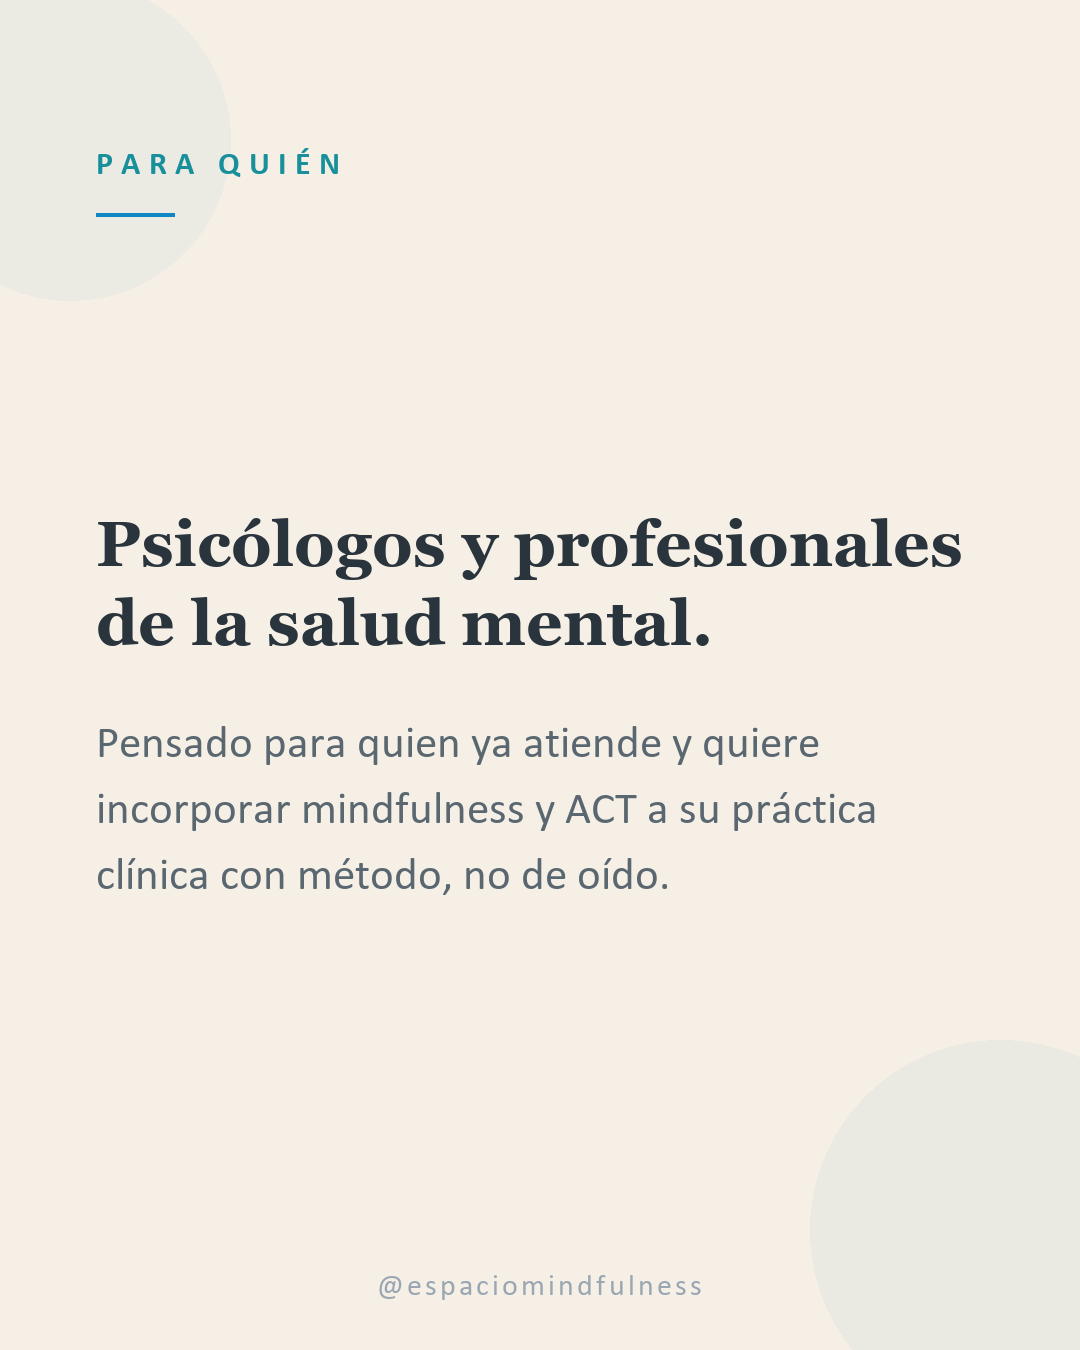
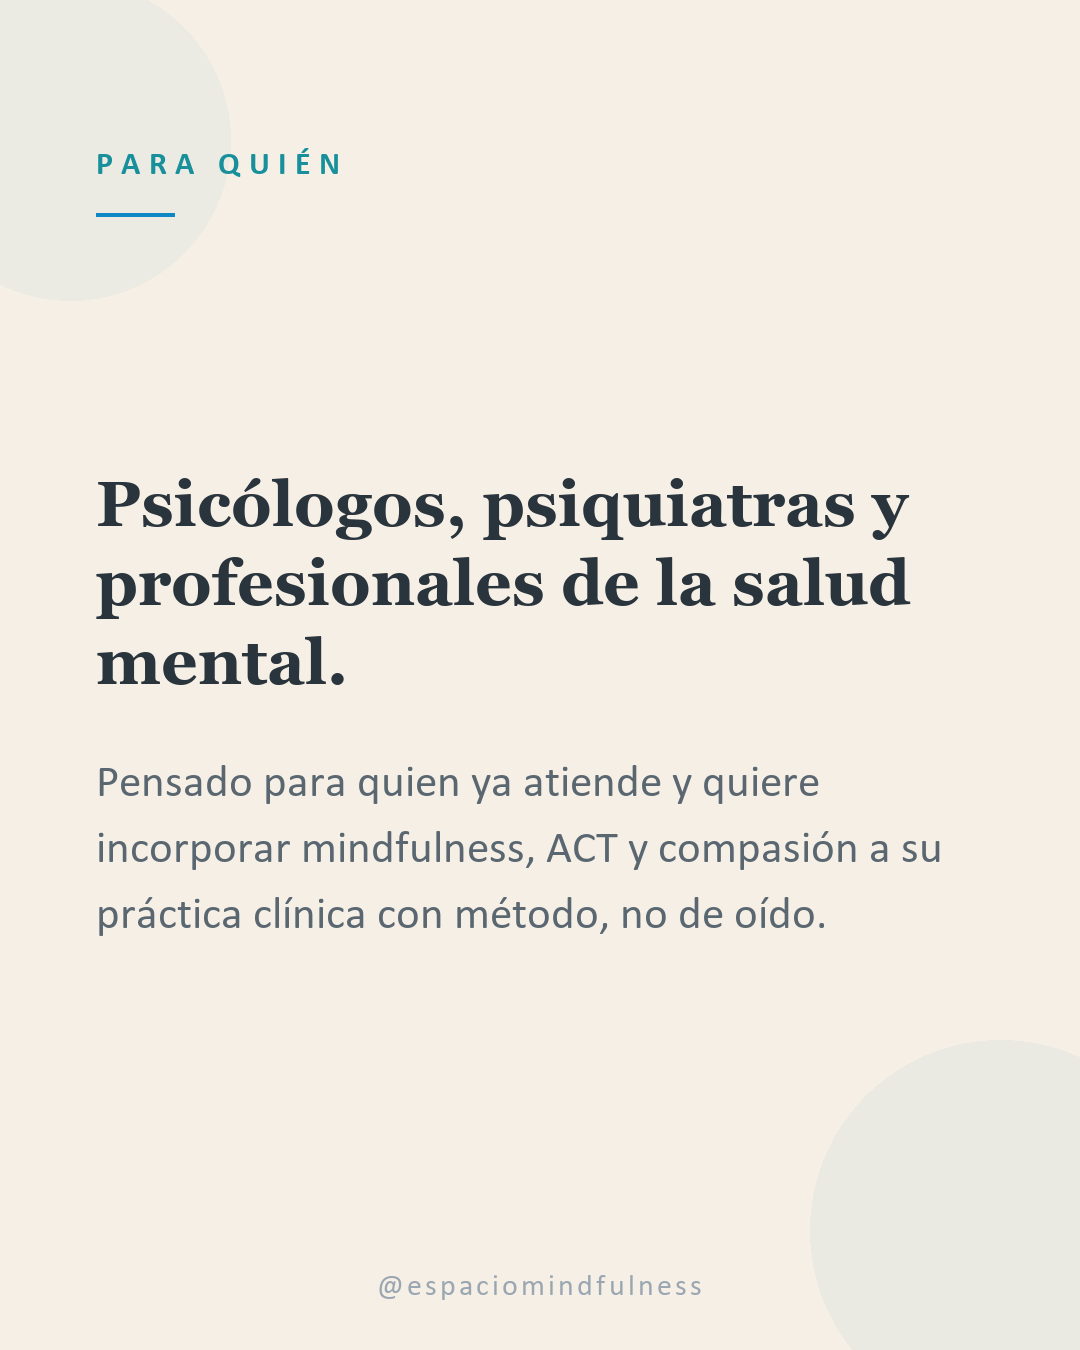
Instructorado y Diplomado 2027 con los datos de las landings: fechas de inicio, modalidad hibrida real y el requisito de haber hecho el MBSR

Changed region(s): [[0.0917, 0.3422, 0.8861, 0.6844]]

diff --git a/disenio/gen_correccion_cupo.py b/disenio/gen_correccion_cupo.py
@@ -15,11 +15,23 @@ las dos formaciones profesionales de 2027.
 Ademas se sacan las fotos de archivo de las portadas de post43 y post51: ya
 hay bastantes placas con fotos de 2019 y conviene no estirar mas ese material.
 
-Datos de las formaciones (fuente: tablero maestro del proyecto EM, 2026):
-  Instructorado 2027 — sabados, 300 hs, 9 modulos, MBSR/MBCT/MSC + empresarial.
-  Diplomado 2027 (TBP) — 9 encuentros de 4 h en vivo por Zoom, 2os martes de
-  10 a 14, del 13/04 al 14/12, cierre presencial el 18/12 en Buenos Aires,
-  17 modulos en 5 bloques, 200 hs.
+Datos de las formaciones — FUENTE: las landings publicadas, chequeadas el
+04/09/2026. El tablero del proyecto tenia varias desactualizadas.
+
+  Instructorado 2027 — inicio sabado 10/04/2027. UN sabado al mes (segundos),
+  de 10 a 14, de abril a diciembre. 9 modulos en 4 bloques. Hibrido: modulos
+  1-5 en vivo por Zoom, 6-9 presenciales en Villa Urquiza. 300 hs certificadas.
+  REQUISITO: haber completado el programa MBSR de 8 semanas.
+  El certificado lo emite Espacio Mindfulness; el GMC acredita a Christian
+  como MBSR Teacher, no al Instructorado. No confundir las dos cosas.
+
+  Diplomado 2027 — inicio martes 13/04/2027. 9 encuentros de 4 h, un martes
+  por mes de 10 a 14, 100% en vivo por Zoom, de abril a diciembre. Cierre
+  presencial el sabado 18/12/2027 en Buenos Aires. 17 modulos en 5 bloques.
+  Mindfulness clinico, ACT y Compasion bajo el marco de la Psicoterapia
+  Basada en Procesos.
+  No se pone la carga horaria total: la landing dice 250 hs y el tablero
+  interno dice 200. Hasta que se resuelva, mejor no publicar el numero.
 """
 from piezas import *
 
@@ -59,10 +71,10 @@ def p33_instructorado_anuncio():
     return texto_suelto(
         "FORMACIÓN PROFESIONAL · 2027",
         "Instructorado en Mindfulness",
-        "Trescientas horas, los sábados, para formarte y poder conducir "
-        "grupos: MBSR, MBCT, MSC y mindfulness aplicado al ámbito "
-        "organizacional.",
-        "INSCRIPCIÓN ABIERTA", claro=False)
+        "Un sábado al mes, de abril a diciembre, entre Zoom y presencial. "
+        "Trescientas horas certificadas para pasar de practicar a poder "
+        "enseñar.",
+        "ARRANCA EL 10 DE ABRIL", claro=False)
 
 
 # ── 13/10 · Instructorado, carrusel ───────────────────────────────────────
@@ -70,27 +82,26 @@ def p43_instructorado():
     return [
         ("post43_anuncio_1.png", cubierta(
             "Instructorado", "en Mindfulness",
-            "Cohorte 2027 · La inscripción ya está abierta.")),
+            "Cohorte 2027 · Arranca el sábado 10 de abril.")),
         ("post43_anuncio_2.png", punto(
-            "PARA QUIÉN", "Para quien quiere enseñar, no solo practicar.",
-            "Profesionales de la salud, la educación y el ámbito "
-            "organizacional que ya tienen práctica personal y quieren "
-            "formarse para conducir grupos.")),
+            "PARA QUIÉN", "Para egresados del programa MBSR.",
+            "El requisito es haber hecho las ocho semanas. No se enseña a "
+            "guiar algo que no se transitó primero en carne propia.")),
         ("post43_anuncio_3.png", punto(
-            "CÓMO ES", "Trescientas horas, los sábados.",
-            "Nueve módulos a lo largo del año, con formación en los tres "
-            "programas — MBSR, MBCT y MSC — más mindfulness aplicado a "
-            "empresas.")),
+            "CUÁNDO", "Un sábado al mes, de 10 a 14 h.",
+            "Segundos sábados, de abril a diciembre de 2027. Los cinco "
+            "primeros encuentros son en vivo por Zoom y los cuatro últimos "
+            "presenciales, en la sede de Villa Urquiza.")),
         ("post43_anuncio_4.png", punto(
-            "POR QUÉ ACÁ", "En mindfulness no hay matrícula.",
-            "Cualquiera puede llamarse instructor mañana. Por eso importa "
-            "quién certifica: estamos acreditados por Global Mindfulness "
-            "Collaborative y enseñamos desde 2012.")),
+            "QUÉ SE VE", "Nueve módulos, del rol al oficio.",
+            "Manejo de grupos, neuroeducación, mindfulness con niños, "
+            "psicodeporte, mindfulness empresarial, diseño de talleres "
+            "—MBSR, MBCT y MSC— y prácticas compasivas.")),
         ("post43_anuncio_5.png", cierre_cta(
             "Cohorte 2027",
-            "Escribinos y te pasamos el temario completo de los nueve "
-            "módulos y el calendario. Los grupos son chicos.",
-            "ESCRIBINOS POR WHATSAPP", "SÁBADOS · 300 HORAS · AVAL GMC")),
+            "Trescientas horas certificadas, con numeración única "
+            "verificable. Escribinos y te pasamos el temario completo.",
+            "ESCRIBINOS POR WHATSAPP", "INICIO 10/04/2027 · CUPOS LIMITADOS")),
     ]
 
 
@@ -110,26 +121,26 @@ def p51_diplomado():
     return [
         ("post51_diplomado_1.png", cubierta(
             "Diplomado 2027", "inscripción abierta",
-            "Psicoterapia Basada en Procesos, con mindfulness y ACT.")),
+            "Mindfulness, ACT y Compasión, bajo el marco de procesos.")),
         ("post51_diplomado_2.png", punto(
-            "PARA QUIÉN", "Psicólogos y profesionales de la salud mental.",
-            "Pensado para quien ya atiende y quiere incorporar mindfulness y "
-            "ACT a su práctica clínica con método, no de oído.")),
+            "PARA QUIÉN", "Psicólogos, psiquiatras y profesionales de la salud mental.",
+            "Pensado para quien ya atiende y quiere incorporar mindfulness, "
+            "ACT y compasión a su práctica clínica con método, no de oído.")),
         ("post51_diplomado_3.png", punto(
-            "CÓMO ES", "Nueve encuentros en vivo, un martes por mes.",
-            "Cuatro horas cada uno, por Zoom y en vivo, de abril a diciembre. "
-            "Más un cierre presencial en Buenos Aires con práctica intensiva "
-            "y graduación. Doscientas horas en total.")),
+            "CUÁNDO", "Nueve encuentros, un martes por mes.",
+            "Cuatro horas cada uno, de 10 a 14, todos en vivo por Zoom, de "
+            "abril a diciembre. Más el cierre presencial del sábado 18 de "
+            "diciembre en Buenos Aires.")),
         ("post51_diplomado_4.png", punto(
             "QUÉ VAS A VER", "Diecisiete módulos en cinco bloques.",
-            "Del diagnóstico a los procesos de cambio, bajo el marco de la "
-            "Terapia Basada en Procesos. Lo dicta gente que atiende todos "
-            "los días: no es teoría de manual.")),
+            "Del diagnóstico a los procesos de cambio, con el modelo de Hayes "
+            "y Hofmann. Mindfulness clínico, ACT, compasión y un bloque final "
+            "de integración con casos reales.")),
         ("post51_diplomado_5.png", cierre_cta(
             "Cohorte 2027",
             "Arranca el martes 13 de abril. Escribinos y te pasamos el "
-            "temario completo. Los grupos son chicos.",
-            "ESCRIBINOS POR WHATSAPP", "MARTES POR ZOOM · CIERRE PRESENCIAL")),
+            "temario completo en PDF. Los grupos son chicos.",
+            "ESCRIBINOS POR WHATSAPP", "EN VIVO POR ZOOM · CIERRE PRESENCIAL")),
     ]
 
 

diff --git a/disenio/recaption_cupo.py b/disenio/recaption_cupo.py
@@ -32,34 +32,33 @@ NUEVAS = {
 
  "post33-cierre-septiembre": (
   "Instructorado en Mindfulness — Cohorte 2027.\n\n"
-  "Trescientas horas, los sábados, para pasar de practicar a poder conducir "
-  "grupos. Nueve módulos con formación en los tres programas — MBSR, MBCT y "
-  "MSC — más mindfulness aplicado al ámbito organizacional.\n\n"
-  "Una aclaración que hacemos siempre: en mindfulness no hay matrícula ni "
-  "colegio que regule. Cualquiera puede llamarse instructor mañana. Por eso "
-  "lo único que te protege como alumno es mirar quién certifica a quien te "
-  "enseña.\n\n"
-  "Espacio Mindfulness está acreditado por Global Mindfulness Collaborative y "
-  "enseña desde 2012. Chequealo, y chequeá a cualquiera con quien vayas a "
-  "formarte.\n\n"
-  "La inscripción está abierta. Escribinos y te pasamos el temario completo 🌿",
-  HT_PRO),
+  "Arranca el sábado 10 de abril. Un sábado al mes, de 10 a 14, de abril a "
+  "diciembre: los cinco primeros encuentros en vivo por Zoom y los cuatro "
+  "últimos presenciales en Villa Urquiza.\n\n"
+  "Es para egresados del programa MBSR. Ese es el requisito y no es un "
+  "capricho: no se enseña a guiar algo que no se transitó primero en carne "
+  "propia.\n\n"
+  "Trescientas horas certificadas, con numeración única verificable.\n\n"
+  "La inscripción está abierta y los cupos son limitados. Escribinos y te "
+  "pasamos el temario completo de los nueve módulos 🌿", HT_PRO),
 
  "post43-anuncio-ultima-cohorte": (
-  "Formarte para enseñar es otra cosa que practicar.\n\n"
-  "El Instructorado en Mindfulness 2027 es para profesionales de la salud, la "
-  "educación y el ámbito organizacional que ya tienen práctica personal y "
-  "quieren conducir grupos 👉 deslizá.\n\n"
-  "Trescientas horas, los sábados, nueve módulos a lo largo del año. Se "
-  "recorren los tres programas — MBSR, MBCT y MSC — y se suma mindfulness "
-  "aplicado a empresas, que es donde más demanda hay y menos gente formada.\n\n"
-  "La cuarta placa es la que nos importa: en este rubro no hay matrícula. "
-  "Antes de anotarte en cualquier formación, preguntá quién la certifica y "
-  "fijate si esa institución existe fuera de su propia web.\n\n"
-  "Nosotros estamos acreditados por Global Mindfulness Collaborative y "
-  "enseñamos desde 2012.\n\n"
-  "Escribinos por WhatsApp y te pasamos el temario y el calendario 🌿",
-  HT_PRO),
+  "Hiciste el MBSR. ¿Y si el próximo paso es enseñarlo?\n\n"
+  "El Instructorado en Mindfulness 2027 arranca el sábado 10 de abril 👉 "
+  "deslizá.\n\n"
+  "Un sábado al mes de 10 a 14, de abril a diciembre. Nueve módulos: los "
+  "cinco primeros en vivo por Zoom y los cuatro últimos presenciales en "
+  "Villa Urquiza.\n\n"
+  "Se ve manejo de grupos y rol del instructor, neuroeducación, mindfulness "
+  "con niños, psicodeporte, mindfulness empresarial, diseño de talleres "
+  "—MBSR, MBCT y MSC— y prácticas compasivas. Trescientas horas certificadas.\n\n"
+  "Y la advertencia que hacemos siempre, incluso si elegís formarte en otro "
+  "lado: en mindfulness no hay matrícula ni colegio que regule. Cualquiera "
+  "puede llamarse instructor mañana. Antes de anotarte donde sea, preguntá "
+  "quién dirige la formación y con qué acreditación.\n\n"
+  "Acá la dirección académica es del Lic. Christian Arpa, psicólogo (UBA) y "
+  "MBSR Teacher acreditado por Global Mindfulness Collaborative.\n\n"
+  "Escribinos por WhatsApp y te pasamos el temario completo 🌿", HT_PRO),
 
  "post44-ultima-llamada": (
   "Mañana arranca la presencial, con el cupo completo.\n\n"
@@ -68,25 +67,26 @@ NUEVAS = {
   "· Hay lista de espera, por si se libera un lugar.\n"
   "· La próxima cohorte online arranca a principios del año que viene.\n"
   "· La charla gratuita de 45 minutos sigue abierta todo el mes.\n\n"
-  "Y si lo tuyo es formarte para enseñar, el Instructorado y el Diplomado 2027 "
-  "ya tienen la inscripción abierta.\n\n"
+  "Y si lo tuyo es formarte para enseñar, el Instructorado 2027 arranca el "
+  "10 de abril y el Diplomado el 13. Los dos con inscripción abierta.\n\n"
   "Escribinos por WhatsApp y vemos cuál te sirve.", HT),
 
  "post51-diplomado-2027": (
   "Diplomado en Psicoterapia Basada en Procesos — Cohorte 2027.\n\n"
-  "Para psicólogos y profesionales de la salud mental que ya atienden y "
-  "quieren incorporar mindfulness y ACT a su práctica con método, no de "
-  "oído 👉 deslizá.\n\n"
-  "Nueve encuentros de cuatro horas, un martes por mes, en vivo por Zoom, de "
-  "abril a diciembre. Más un cierre presencial en Buenos Aires con práctica "
-  "intensiva y graduación. Doscientas horas en total, diecisiete módulos en "
-  "cinco bloques.\n\n"
+  "Mindfulness, ACT y Compasión: los tres enfoques con más evidencia clínica, "
+  "integrados en un solo marco de trabajo. Por procesos del paciente, no por "
+  "protocolos cerrados 👉 deslizá.\n\n"
+  "Arranca el martes 13 de abril. Nueve encuentros de cuatro horas, un martes "
+  "por mes de 10 a 14, todos en vivo por Zoom, hasta diciembre. Más el cierre "
+  "presencial del sábado 18 de diciembre en Buenos Aires: práctica intensiva, "
+  "supervisión final y graduación.\n\n"
   "En vivo, dicho en serio: no es una plataforma con clases grabadas y una "
-  "reunión mensual. Se cursa con el grupo y con supervisión.\n\n"
-  "Y lo que más nos importa: lo dicta gente que atiende. No es teoría de "
-  "manual, es lo que el equipo hace todos los días en el consultorio.\n\n"
-  "Arranca el martes 13 de abril. Escribinos y te pasamos el temario "
-  "completo 🌿", HT_PRO),
+  "reunión al mes. Se cursa con el grupo, con supervisión y con casos "
+  "clínicos reales.\n\n"
+  "Diecisiete módulos en cinco bloques, y uno de ellos es solo de integración "
+  "clínica — que es donde suelen quedar cortas las formaciones que enseñan "
+  "los modelos por separado.\n\n"
+  "Escribinos y te pasamos el temario completo en PDF 🌿", HT_PRO),
 }
 
 # Retoques chicos: el 45 sigue siendo valido, pero conviene que diga que

diff --git a/disenio/marca.py b/disenio/marca.py
@@ -180,5 +180,9 @@ def guardar(placas, nombre_preview, cols=4):
         mini = img.copy()
         mini.thumbnail((tw - 8, th - 8))
         hoja.paste(mini, ((i % cols) * tw + 4, (i // cols) * th + 4))
-    hoja.save(nombre_preview, quality=90)
-    print("preview:", nombre_preview)
+    # Siempre al lado del generador: si se guarda relativo al cwd, la preview
+    # cae en la raiz del repo cuando el script se corre desde afuera y uno
+    # termina mirando la version vieja sin darse cuenta.
+    salida = Path(__file__).resolve().parent / nombre_preview
+    hoja.save(salida, quality=90)
+    print("preview:", salida)
